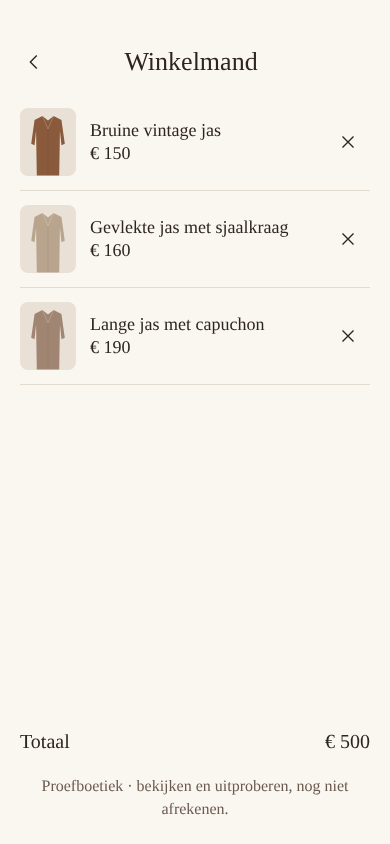
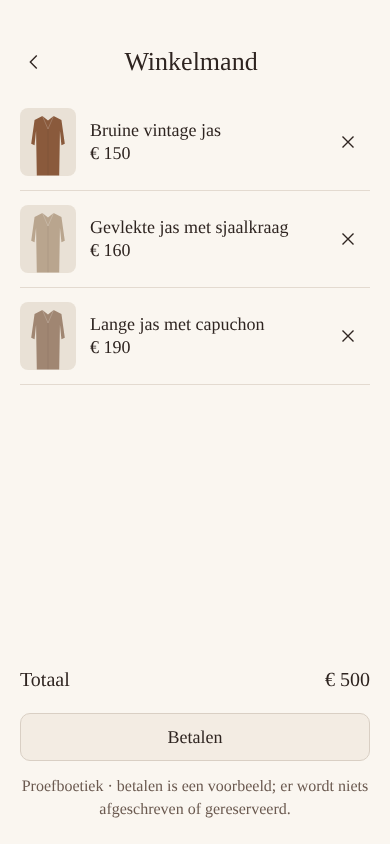
Besluiten Martijn: Mijn favorieten, Betalen met voorbeeldbetaling
- "Mijn items" heet "Mijn favorieten" (build-anker, lijsten en tests).
- Winkelmand: knop Betalen (was Afrekenen in optie B) met een
  voorbeeldbetaling in twee stappen; niets betaald, gereserveerd of
  geschreven, mand blijft staan. Tests en beelden bijgewerkt.
- docs/SMAAKPROFIEL.md: twaalf besluiten vastgelegd, onderdelen herverdeeld
  (AI-proxy en herordenen met hoofdfoto per bezoeker hierna in deze sessie;
  Mijn smaak met meer/minder zoals dit voor de volgende sessie).
- FRONTEND-PLAN, AGENTS.md (afwijkingen van optie B), blauwdruk taste.js en
  STATUS bijgewerkt. Paneelmarges (C) vervallen: dicht bij optie B blijven.

Claude-Session: https://claude.ai/code/session_016f11jGvvejD1eLcGxw7dXk

diff --git a/app/store-screens/taste.js b/app/store-screens/taste.js
@@ -1,7 +1,14 @@
 (function () {
   // Mijn smaak — BLAUWDRUK, NOG NIET GEBOUWD. Eigenaar: volgende Claude Code-sessie
   // (docs/SMAAKPROFIEL.md, onderdeel 4). Dit bestand wordt al meegebouwd maar registreert niets,
-  // zodat de winkel ongewijzigd blijft tot Martijn de plek in het menu heeft goedgekeurd.
+  // zodat de winkel ongewijzigd blijft tot dit onderdeel af is.
+  //
+  // Besluiten van Martijn (10 november 2026), zie docs/SMAAKPROFIEL.md "Besluiten":
+  //   - "Mijn smaak" is een vierde regel in het Shop-menu (na Winkelmand of na Mijn favorieten).
+  //   - Alles in het venster vult zich door de keuzes van de bezoeker; niets voorgevuld.
+  //   - De bezoeker kan alles wissen, of één kenmerk tegelijk.
+  //   - Knoppen meer/minder zoals dit staan in de foto, aan de andere kant dan het hartje.
+  //   - Zoekfilters in Collectie tellen niet als voorkeur.
   //
   // Waarom geen React/Vue: de winkel is gewone JavaScript zonder build (AGENTS.md: geen tweede
   // systeem). Het venster gebruikt dezelfde aansluiting als Winkelmand: NikkiShop.registerScreen.
@@ -12,31 +19,40 @@
   //   A.applySignal(p, signal, now)   -> nieuw profiel (zie app/taste/types.d.ts voor Signal)
   //   A.summarize(p, now)             -> wat de bezoeker als "actief" ziet; null als het uit staat
   //   NikkiShop.onSignal(fn)          -> like/unlike/cart/uncart (+ publieke kopie), browse-filter
+  //   NikkiShop.api.current()         -> het stuk in beeld; api.publicCopy(it) voor een signaal
   //
-  // 1. Leren (zelfde PR als het venster, want transparantie hoort erbij)
-  //   NikkiShop.onSignal((signal) => { if (signal.type === 'browse-filter') return; // zoekfilter ≠ voorkeur
+  // 1. Leren
+  //   NikkiShop.onSignal((signal) => { if (signal.type === 'browse-filter') return;
   //     const now = Date.now(); P.save(localStorage, A.applySignal(P.load(localStorage, now), signal, now)); });
   //
-  // 2. Venster (registerScreen('Mijn smaak', { render, action })), van boven naar beneden:
-  //   [kop: terug-icoon · "Mijn smaak" · leeg vak]            (gedeelde kop, zoals Collectie)
-  //   [schakelaar] Persoonlijke volgorde  aan/uit             data-act="taste-enable"
-  //   Uitleg, 16 px, één zin: "Je voorkeuren blijven in deze browser. Er wordt niets over jou opgeslagen."
-  //   Sectie "Dit zoek je"   — expliciete keuzes als chips met ×  data-act="taste-filter" (include, on:false)
-  //   Sectie "Dit vermijd je" — idem voor exclude
-  //   Sectie "Geleerd"        — top 12 uit summarize().prefer en .avoid, label uit p.features[key].label,
-  //                             met ×-knop: data-act="taste-forget" data-key="<FeatureKey>"
-  //   Toevoegen: per dimensie een <select> met waarden uit api.items() (zoals het materiaalfilter),
-  //              twee knoppen met icoon (plus / min, zonder woorden): include of exclude
-  //   Budget: <select> met de prijsklassen uit A.PRICE_BANDS of "Geen grens"  -> {type:'budget'}
-  //   Onderaan: knop met prullenbak-icoon "Wis mijn smaak"   data-act="taste-clear" (bevestigen met confirm)
-  //   Leeg profiel: "Nog geen voorkeuren. Hartjes en je winkelmand helpen de boetiek je smaak te leren."
+  // 2. Meer / minder zoals dit (in de foto)
+  //   - Twee knoppen .on-photo in een eigen groep links in de foto, gespiegeld aan .photo-acts
+  //     (delen + hartje) rechts. Iconen zonder tekst: duim omhoog / duim omlaag, of plus / min.
+  //     aria-label "Meer zoals dit" / "Minder zoals dit", aria-pressed na tikken tot een ander stuk.
+  //   - Tik: A.applySignal(p, {type:'more'|'less', item: api.publicCopy(api.current())}, now).
+  //   - Voeg ze toe vanuit dit bestand (DOM na laden), zodat de kern ongewijzigd blijft. Let op de
+  //     bestaande veeg- en dubbeltikbediening: knoppen in de foto worden al genegeerd door de gebaren.
+  //   - Verberg ze zoals de andere fotoknoppen bij een lege catalogus ([data-catalog-empty]).
   //
-  // 3. Regels
+  // 3. Venster (registerScreen('Mijn smaak', { render, action })), van boven naar beneden:
+  //   [kop: terug-icoon · "Mijn smaak" · leeg vak]            (gedeelde kop, zoals Collectie)
+  //   [schakelaar] Persoonlijke volgorde aan/uit              data-act="taste-enable"
+  //   Uitleg, 16 px, één zin: "Je voorkeuren blijven in deze browser."
+  //   Sectie "Meer van"      — summarize().prefer, label uit p.features[key].label of de expliciete waarde
+  //   Sectie "Minder van"    — summarize().avoid
+  //   Elke regel: label + ×-knop  data-act="taste-forget" data-key="<FeatureKey>" (expliciet: filter on:false)
+  //   Budget, alleen als de bezoeker het koos: regel met ×  -> {type:'budget', maxPriceMinor:null}
+  //   Onderaan: "Wis alles" (prullenbak-icoon)  data-act="taste-clear", met confirm
+  //   Leeg profiel: "Nog geen voorkeuren. Hartjes, je winkelmand en meer/minder zoals dit vullen dit vanzelf."
+  //   Geen keuzelijsten om zelf kenmerken toe te voegen: alles komt uit wat de bezoeker doet.
+  //
+  // 4. Regels
   //   - Stijl van optie B en Collectie: .head, .line, .chip, .ic, var(--chip) enz.; tekst ≥ 16 px,
-  //     knoppen ≥ 44 px, iconen zonder woorden, alles via esc() (labels komen uit opslag = onbetrouwbaar).
-  //   - Nog géén herordening van de winkel en géén AI-aanroep; dat is onderdeel 5 en wacht op Martijn.
-  //   - Menuplek: optie B heeft drie menuregels. Een vierde regel "Mijn smaak" (of een icoon in Mijn items)
-  //     is een ontwerpwijziging: vraag het in de PR, met beelden op 390/320 px naast optie B.
-  //   - Tests in tests/storefront-taste.cjs: leren via hartje/mand, terugdraaien, uit = niets leren,
-  //     wissen houdt de uit-stand, vergeten van één kenmerk, veilige tekst, 44 px, geen netwerk-schrijfacties.
+  //     knoppen ≥ 44 px, alles via esc() (labels komen uit opslag en zijn dus onbetrouwbaar).
+  //   - Menuregel toevoegen via een anker in scripts/build-cloud.mjs (zoals "Mijn favorieten").
+  //   - Geen herordening en geen AI-aanroep: dat zijn onderdelen 5 en 6 (andere sessie,
+  //     bestand app/store-screens/personalise.js). Raak dat bestand niet aan.
+  //   - Tests in tests/storefront-taste.cjs: leren via hartje/mand/meer/minder, terugdraaien,
+  //     uit = niets leren, wissen houdt de uit-stand, één kenmerk vergeten, zoekfilter leert niets,
+  //     veilige tekst, 44 px, geen netwerkverkeer behalve de bestaande catalogus.
 })();

diff --git a/app/store-screens/cart.js b/app/store-screens/cart.js
@@ -1,29 +1,46 @@
 (function () {
   // Winkelmand: the basket overview from concept/ontdekken-optie-b.html (lines, remove, total),
   // filled with the local selection in localStorage.nikki-cart. Owner: see docs/FRONTEND-PLAN.md.
-  // No checkout exists yet, so the design's "Afrekenen" button is replaced by the existing pilot note.
-  // Nothing is reserved or written to Supabase.
-  var NOTE = '<p class="muted cart-note">Proefboetiek · bekijken en uitproberen, nog niet afrekenen.</p>';
+  // "Betalen" (Martijn, 10 november 2026: Betalen instead of Afrekenen) runs a sample payment only:
+  // nothing is paid, reserved or written to Supabase, and the basket stays as it is.
+  var NOTE = '<p class="muted cart-note">Proefboetiek · betalen is een voorbeeld; er wordt niets afgeschreven of gereserveerd.</p>';
+  var step = 'cart'; // 'cart' | 'pay' | 'done'
   function euro(minor) {
     return new Intl.NumberFormat('nl-NL', { style: 'currency', currency: 'EUR', minimumFractionDigits: minor % 100 ? 2 : 0 }).format(minor / 100);
   }
+  function focus(selector) { var el = document.querySelector('#cart ' + selector); if (el) el.focus({ preventScroll: true }); }
   window.NikkiShop.registerScreen('Winkelmand', {
     render: function (api) {
+      // A fresh opening of the panel always starts at the basket; a catalog refresh keeps the step.
+      if (document.getElementById('cart').hidden) step = 'cart';
       var esc = api.esc, keys = api.cartKeys();
       var lines = keys.map(function (key) { return api.items().find(function (it) { return it.key === key; }); }).filter(Boolean);
       // A published piece whose photos are temporarily unavailable stays selected but cannot be shown.
       var hidden = keys.length - lines.length;
       var hiddenNote = hidden ? '<p class="muted cart-note">' + (hidden === 1 ? '1 stuk in je winkelmand is' : hidden + ' stukken in je winkelmand zijn') + ' tijdelijk niet te zien.</p>' : '';
-      if (!lines.length) return '<p class="muted" style="margin:48px 0 0;text-align:center;font-size:18px">Je winkelmand is leeg.</p>' + hiddenNote + NOTE;
-      var total = lines.reduce(function (sum, it) { return sum + it.priceMinor; }, 0);
+      if (!lines.length) { step = 'cart'; return '<p class="muted" style="margin:48px 0 0;text-align:center;font-size:18px">Je winkelmand is leeg.</p>' + hiddenNote + NOTE; }
+      var total = euro(lines.reduce(function (sum, it) { return sum + it.priceMinor; }, 0));
+      var totalRow = '<div class="kv" style="border:0;font-size:20px"><span>Totaal</span><span id="cart-total">' + esc(total) + '</span></div>';
+      if (step === 'pay') return '<div class="cart-step"><p class="cart-step-title">Voorbeeldbetaling</p>' +
+        '<p class="cart-step-text">' + lines.length + (lines.length === 1 ? ' stuk' : ' stukken') + '. Dit is een proef: er wordt niets betaald of gereserveerd.</p></div>' +
+        '<div class="cart-foot">' + totalRow + '<button type="button" class="checkout" data-act="cart-pay-confirm">Betalen</button>' +
+        '<button type="button" class="checkout cart-secondary" data-act="cart-pay-back">Terug naar winkelmand</button></div>';
+      if (step === 'done') return '<div class="cart-step" role="status"><p class="cart-step-title">Voorbeeldbetaling afgerond</p>' +
+        '<p class="cart-step-text">Er is niets betaald of gereserveerd. Je stukken blijven in je winkelmand.</p></div>' +
+        '<div class="cart-foot"><button type="button" class="checkout" data-act="cart-pay-back">Terug naar winkelmand</button></div>';
       return '<ul class="cart-lines">' + lines.map(function (it) {
         return '<li class="line" data-item-key="' + esc(it.key) + '"><span class="face">' + api.face(it) + '</span><div class="txt"><span>' + esc(it.title) + '</span><span>' + esc(it.price) + '</span></div>' +
           '<button type="button" class="ic" data-act="cart-remove" data-key="' + esc(it.key) + '" aria-label="Verwijder ' + esc(it.title) + '">' + api.CLOSE + '</button></li>';
       }).join('') + '</ul>' +
-        '<div class="cart-foot">' + hiddenNote +
-        '<div class="kv" style="border:0;font-size:20px"><span>Totaal</span><span id="cart-total">' + esc(euro(total)) + '</span></div>' + NOTE + '</div>';
+        '<div class="cart-foot">' + hiddenNote + totalRow + '<button type="button" class="checkout" data-act="cart-pay">Betalen</button>' + NOTE + '</div>';
     },
     action: function (act, button, api) {
+      if (act === 'cart-pay' || act === 'cart-pay-confirm' || act === 'cart-pay-back') {
+        step = act === 'cart-pay' ? 'pay' : act === 'cart-pay-confirm' ? 'done' : 'cart';
+        api.refresh();
+        focus(step === 'pay' ? '[data-act="cart-pay-confirm"]' : step === 'done' ? '[data-act="cart-pay-back"]' : '[data-act="cart-pay"]');
+        return;
+      }
       if (act !== 'cart-remove') return;
       var keys = api.cartKeys(), next = keys[keys.indexOf(button.dataset.key) + 1];
       api.toggleCart(button.dataset.key, false);

diff --git a/app/store-extension.js b/app/store-extension.js
@@ -87,12 +87,12 @@
   var destination='', returnFocus=null, infoOrigin=null;
   var lists={
     'Collectie':{query:'',material:'',sort:'order',scroll:0},
-    'Mijn items':{query:'',material:'',sort:'order',scroll:0}
+    'Mijn favorieten':{query:'',material:'',sort:'order',scroll:0}
   };
   function fold(text) { return String(text || '').normalize('NFD').replace(/[\u0300-\u036f]/g,'').toLocaleLowerCase('nl-NL'); }
   function listItems() {
     var state=lists[destination], words=fold(state.query).trim().split(/\s+/).filter(Boolean);
-    var items=ITEMS.filter(it=>(destination!=='Mijn items' || S.liked[it.displayId]) &&
+    var items=ITEMS.filter(it=>(destination!=='Mijn favorieten' || S.liked[it.displayId]) &&
       (!state.material || it.material===state.material) &&
       words.every(word=>fold([it.title,it.description,it.material,['Ja','Alleen kraag of rand'].includes(it.furClass)?it.species:''].join(' ')).includes(word)));
     if(state.sort==='price-up')items.sort((a,b)=>a.priceMinor-b.priceMinor);
@@ -120,7 +120,7 @@
     $('catalog-reset').disabled=!state.query && !state.material && state.sort==='order';
     if(!items.length) {
       var message=state.query || state.material?'Geen stukken gevonden. Pas je zoekopdracht of filters aan.':
-        destination==='Mijn items'?'Er zijn nu geen beschikbare stukken met een hartje.':'Er zijn nu geen stukken beschikbaar.';
+        destination==='Mijn favorieten'?'Er zijn nu geen beschikbare stukken met een hartje.':'Er zijn nu geen stukken beschikbaar.';
       results.innerHTML='<li class="catalog-empty muted">'+message+'</li>';
     } else results.innerHTML=items.map(it=>{
       var key=esc(it.key), selected=!!S.cart[it.key], liked=!!S.liked[it.displayId];
@@ -128,7 +128,7 @@
         '<button type="button" class="face catalog-photo" data-act="list-photo" data-key="'+key+'" aria-label="Bekijk foto’s van '+esc(it.title)+'">'+face(it)+'</button>'+
         '<div class="txt"><button type="button" class="catalog-title" data-act="list-info" data-key="'+key+'" aria-label="Meer over '+esc(it.title)+'">'+esc(it.title)+'</button>'+
         '<div class="catalog-actions"><button type="button" class="chip price catalog-price" data-act="list-cart" data-key="'+key+'" aria-pressed="'+selected+'" aria-label="'+esc(it.price)+', '+esc(it.title)+(selected?', verwijder uit winkelmand':', toevoegen aan winkelmand')+'">'+esc(it.price)+bagIcon(selected)+'</button>'+
-        '<button type="button" class="ic" data-act="list-like" data-key="'+key+'" aria-pressed="'+liked+'" aria-label="'+(liked?'Verwijder uit Mijn items: ':'Bewaar in Mijn items: ')+esc(it.title)+'">'+heartIcon(liked)+'</button></div></div></li>';
+        '<button type="button" class="ic" data-act="list-like" data-key="'+key+'" aria-pressed="'+liked+'" aria-label="'+(liked?'Verwijder uit Mijn favorieten: ':'Bewaar in Mijn favorieten: ')+esc(it.title)+'">'+heartIcon(liked)+'</button></div></div></li>';
     }).join('');
     results.scrollTop=scroll;state.scroll=results.scrollTop;
     if(focused) {
@@ -148,7 +148,7 @@
     }
     var state=lists[destination], materials=Array.from(new Set(ITEMS.map(it=>it.material).concat(state.material).filter(v=>typeof v==='string' && v.trim()))).sort((a,b)=>a.localeCompare(b,'nl-NL'));
     $('cart').innerHTML=header+
-      (destination==='Mijn items'?'<p class="catalog-note muted">Je hartjes worden alleen in deze browser bewaard.</p>':'')+
+      (destination==='Mijn favorieten'?'<p class="catalog-note muted">Je hartjes worden alleen in deze browser bewaard.</p>':'')+
       '<div class="catalog-tools"><div class="catalog-search"><input id="catalog-search" data-field="query" type="search" autocomplete="off" aria-label="Zoek in '+destination+'" placeholder="Zoek een stuk" value="'+esc(state.query)+'">'+
       '<button id="catalog-reset" type="button" class="ic" data-act="list-reset" aria-label="Wis zoekopdracht, filters en sortering">'+CLOSE+'</button></div>'+
       '<div class="catalog-filters"><select data-field="material" aria-label="Materiaal"><option value="">Elk materiaal</option>'+

diff --git a/app/store-layout.css b/app/store-layout.css
@@ -68,3 +68,7 @@ button:disabled { cursor: default; }
 .cart-foot { margin-top: auto; display: flex; flex-direction: column; gap: 14px; padding-top: 14px; }
 .cart-note { margin: 16px 0 0; text-align: center; font-size: 16px; line-height: 1.4; }
 .cart-foot .cart-note { margin: 0; }
+.cart-step { padding-top: 24px; display: flex; flex-direction: column; gap: 10px; }
+.cart-step-title { margin: 0; font-size: 22px; }
+.cart-step-text { margin: 0; font-size: 17px; line-height: 1.55; }
+.cart-secondary { background: transparent; }

diff --git a/docs/SMAAKPROFIEL.md b/docs/SMAAKPROFIEL.md
@@ -26,7 +26,7 @@ Nikki vult per stuk deze publieke velden in en controleert ze (contract in `supa
 - Geleerde gewichten blijven tussen −3 en 3. Er worden hoogstens 60 kenmerken bewaard. De samenvatting voor de server bevat hoogstens 12 voorkeuren en 12 afkeren.
 - **Privacy:** het profiel staat alleen in `localStorage` (`nikki-taste`). Er staan geen stuk-ID's, foto's of persoonsgegevens in. Staat personalisatie uit, dan wordt er niets geleerd. Wissen laat de uit-stand staan.
 - **Stabiel:** de volgorde wordt bepaald bij het begin van een sessie of na een expliciete keuze. Tijdens het bladeren blijft alles op zijn plek; nieuwe stukken komen achteraan (`stableOrder`).
-- **Lokaal eerst:** `ranking.js` rangschikt zonder AI, voorspelbaar en zonder kosten. Bij gelijke score houdt het Nikki's volgorde. Dit is ook de terugval als de AI niet antwoordt. Misschien is lokaal al genoeg; dat moet de A/B-test uitwijzen.
+- **AI rangschikt, lokaal vangt op:** Martijn heeft gekozen voor AI (zie Besluiten). `ranking.js` is alleen de terugval als de AI niet antwoordt of nog niet is ingesteld, en vult stukken aan die de AI overslaat. Bij gelijke score houdt het Nikki's volgorde.
 - **Guardrails bij de AI:**
   - De server haalt zelf de gepubliceerde stukken op en filtert op budget en status vóór de aanroep.
   - De AI ziet geen prijzen of echte ID's, alleen `c1`, `c2`, … met kenmerken en fotorollen.
@@ -39,27 +39,35 @@ Nikki vult per stuk deze publieke velden in en controleert ze (contract in `supa
 | | Onderdeel | Bestanden | Status en eigenaar |
 |---|---|---|---|
 | 1 | **Datamodel** `TasteProfile`, opslag, schoonmaak, verval | `app/taste/types.d.ts`, `app/taste/profile.js` | **Klaar** (Claude Code, deze sessie) |
-| 2 | **Signaalverwerking** en lokale rangschikking | `app/taste/aggregate.js`, `app/taste/ranking.js` | **Klaar** (deze sessie) |
-| 3 | **Payload, systeemprompt en controle** van het AI-antwoord | `supabase/functions/personalise/prompt.mjs` | **Klaar als pure functies** (deze sessie). Niet uitgerold. |
-| 3b | Kernaansluiting: extra publieke velden in de winkelcatalogus en `NikkiShop.onSignal` | `app/store-extension.js` | **Klaar** (deze sessie). De winkel gedraagt zich nog hetzelfde. |
-| 4 | **Venster "Mijn smaak"** (inzien, aanpassen, wissen, uitzetten) en het leren koppelen | `app/store-screens/taste.js` (blauwdruk), `tests/storefront-taste.cjs` | **Volgende Claude Code-sessie.** Opdracht hieronder. |
-| 5 | Winkel herordenen met de stabiele sessievolgorde; eventueel een andere hoofdfoto | nieuw bestand in `app/store-screens/` | **Wacht op Martijn**: verandert wat bezoekers zien |
-| 6 | Server-proxy: handler (herkomst, grootte, limiet per bezoeker/dag, Gemini), migratie voor quota | `supabase/functions/personalise/handler.mjs`, `index.ts` | **Wacht op Martijn**: openbaar betaald eindpunt zonder login (kosten, misbruik) |
-| 7 | A/B-test: gepersonaliseerd tegenover Nikki's volgorde | — | **Wacht op besluit**: er wordt nu niets gemeten |
+| 2 | **Signaalverwerking** en lokale terugval-rangschikking | `app/taste/aggregate.js`, `app/taste/ranking.js` | **Klaar** (deze sessie) |
+| 3 | **Payload, systeemprompt en controle** van het AI-antwoord | `supabase/functions/personalise/prompt.mjs` | **Klaar als pure functies** (deze sessie) |
+| 3b | Kernaansluiting: extra publieke velden en `NikkiShop.onSignal` | `app/store-extension.js` | **Klaar** (deze sessie) |
+| 4 | **Venster "Mijn smaak"** in het Shop-menu, leren, en de knoppen **meer/minder zoals dit** in de foto | `app/store-screens/taste.js` (blauwdruk), `tests/storefront-taste.cjs` | **Volgende Claude Code-sessie.** Opdracht hieronder. |
+| 5 | **Server-proxy** `personalise`: herkomst, grootte, limiet per bezoeker per dag, catalogus ophalen, Gemini-aanroep met `prompt.mjs` | `supabase/functions/personalise/handler.mjs`, `index.ts`, migratie voor de limiet | **Claude Code (deze sessie), na merge van PR #24.** Testbaar met nagebootste diensten; live pas met Gemini-sleutel en uitrol door Martijn. |
+| 6 | **Winkel herordenen** met de AI-volgorde, en per stuk de **hoofdfoto** die bij de bezoeker past | nieuw bestand `app/store-screens/personalise.js` | **Claude Code (deze sessie), na 5.** Raakt `taste.js` niet. |
+| 7 | Meten (A/B: gepersonaliseerd tegenover Nikki's volgorde) | — | Later, vóór de test met Nikki en anderen (zie Besluiten, punt 8) |
 
 Getest in `tests/taste.test.mjs` (14 tests, onderdeel van `npm test`). De browsermodules draaien in de test precies zoals in de winkel. Ook bewaakt: dezelfde kenmerken in browser en server, geen privévelden of ID's in profiel en payload, verval, de uit-stand, gemanipuleerde opslag, budget- en statusfilter, de kandidaatgrens en de controle van het AI-antwoord. De browsertest controleert de signalen in de echte winkel, en dat er nog niets wordt opgeslagen. TypeScript-controle: `npx -p typescript@5.6.3 tsc --noEmit --allowJs --checkJs --target es2022 --lib es2022,dom app/taste/*.js app/taste/types.d.ts` gaf geen fouten. TypeScript is geen projectafhankelijkheid.
 
 ## Opdracht voor de volgende Claude Code-sessie (onderdeel 4)
 
-Kopieer dit als startbericht:
+Kopieer dit als startbericht (pas nadat PR #24 is gemerged):
 
-> Lees AGENTS.md, docs/SMAAKPROFIEL.md, `app/taste/types.d.ts` en de blauwdruk in `app/store-screens/taste.js`. Begin op de nieuwste `main` met een eigen branch. Bouw onderdeel 4: het venster "Mijn smaak" en het leren via `NikkiShop.onSignal`, alleen in `app/store-screens/taste.js`, met een eigen test `tests/storefront-taste.cjs`. Wijzig `app/taste/*` en `app/store-extension.js` niet; als het contract tekortschiet, stop dan en beschrijf wat nodig is. Nog geen herordening van de winkel en geen AI-aanroep. Stel de menuplek als vraag in de PR, met beelden op 390 en 320 px naast optie B.
+> Lees AGENTS.md, docs/SMAAKPROFIEL.md (vooral "Besluiten"), `app/taste/types.d.ts` en de blauwdruk in `app/store-screens/taste.js`. Begin op de nieuwste `main` met een eigen branch. Bouw onderdeel 4: het venster "Mijn smaak" als vierde regel in het Shop-menu, het leren via `NikkiShop.onSignal`, en de knoppen meer/minder zoals dit in de foto, aan de andere kant dan het hartje. Werk alleen in `app/store-screens/taste.js`, een eigen blok in `app/store-layout.css`, het menu-anker in `scripts/build-cloud.mjs` en een eigen test `tests/storefront-taste.cjs`. Wijzig `app/taste/*` en `app/store-extension.js` niet; als het contract tekortschiet, stop dan en beschrijf wat nodig is. Geen herordening en geen AI-aanroep: dat zijn onderdelen 5 en 6, die tegelijk in een andere sessie worden gebouwd. Lever een PR met beelden op 390 en 320 px naast optie B.
 
-## Vragen voor Martijn
+## Besluiten van Martijn (10 november 2026)
 
-1. **Menuplek** voor "Mijn smaak": een vierde regel in het Shop-menu, of een icoon in Mijn items? Optie B heeft nu drie regels.
-2. **Meer / minder zoals dit**: optie B heeft daar geen knoppen voor. Waar mogen ze komen, zonder tekst over de foto? Tot die tijd leert het profiel van hartjes en de mand.
-3. **Hoofdfoto**: mag de boetiek een andere foto van een stuk eerst tonen dan Nikki's hoofdfoto? Standaard niet.
-4. **AI of lokaal**: een openbaar AI-eindpunt kost geld per bezoek en vraagt misbruikbeperking. Voorstel: eerst lokaal (onderdeel 5) en meten, AI pas daarna.
-5. **Zoekfilters in Collectie**: nu tellen ze niet als voorkeur, omdat een eenmalige zoekopdracht geen smaak is. Akkoord?
-6. **Meten en toestemming**: voor de A/B-test zijn gebeurtenissen nodig (hartjes, mand, later bestellingen en retouren). Kies eerst waar en hoe anoniem. Laat ook nagaan of het lokale profiel en het meten een melding of toestemming vragen. Dit plan is geen juridische beoordeling.
+1. **Merge:** winkelmand en smaakprofiel blijven allebei in PR #24.
+2. **"Mijn smaak"** komt als regel in het Shop-menu. Alles erin vult zich door de keuzes van de bezoeker: niets voorgevuld, geen redactionele lijst. De bezoeker kan alles in één keer wissen, of één kenmerk tegelijk.
+3. **Zoekfilters in Collectie** tellen niet als voorkeur.
+4. **AI, zeker.** Geen tijd steken in een rangschikking zonder AI; de lokale rangschikking blijft alleen als terugval.
+5. **De winkel moet herordenen op smaak.** De ervaring sluit aan op de smaak van de koper, niet op die van de verkoper. Alles wat Nikki aanbiedt wordt geordend naar wat deze bezoeker interessant vindt. Nikki's volgorde geldt alleen zonder profiel of met personalisatie uit.
+6. **Meer / minder zoals dit:** in de foto, aan de andere kant dan het hartje. Iconen zonder tekst, minstens 44 px.
+7. **Hoofdfoto per bezoeker: ja.** Wie steeds "meer zoals dit" zegt bij kragen, mag als eerste de detailfoto van de kraag zien. Alleen bestaande foto's van dat stuk; Nikki's hoofdfoto blijft de standaard.
+8. **Meten en toestemming:** niet urgent. Wel regelen vóór Nikki en andere testers de app gebruiken. Tot die tijd wordt niets gemeten of verstuurd buiten de AI-aanroep.
+9. **Winkelplatform, klantaccount en hartjes op meerdere apparaten:** later. Eerst een werkend model met API's, database en website, getest door Nikki en anderen.
+10. **Delen:** een kort vinkje in het deelicoon na kopiëren. Het delen zelf mag eenvoudiger (onderdeel B in FRONTEND-PLAN.md).
+11. **Zo dicht mogelijk bij het artefact van optie B blijven.** Daarom geen CSS-wijziging aan de paneelmarges (onderdeel C vervalt).
+12. **Namen:** "Mijn favorieten" in plaats van "Mijn items", "Betalen" in plaats van "Afrekenen". Betalen doorloopt een voorbeeldbetaling: er wordt niets betaald of gereserveerd.
+
+Nog open, voor later: hoe anoniem het meten moet en of het een melding of toestemming vraagt. Laat dat nagaan; dit plan is geen juridische beoordeling.

diff --git a/docs/FRONTEND-PLAN.md b/docs/FRONTEND-PLAN.md
@@ -30,15 +30,15 @@ Tot nu toe stond de hele winkel in één bestand, `app/store-extension.js`. Twee
 
 | | Onderdeel | Bestand | Status en eigenaar |
 |---|---|---|---|
-| A | **Winkelmand-overzicht**: regels uit optie B met foto, naam, prijs en verwijderen, plus het totaal. In plaats van de knop Afrekenen staat de bestaande proefmelding, want er is nog geen checkout. Een stuk waarvan de foto tijdelijk niet laadt, blijft in de mand en wordt als "tijdelijk niet te zien" gemeld. | `app/store-screens/cart.js`, `tests/storefront-cart.cjs` | **Klaar in deze PR** (Claude Code, deze sessie, overgenomen van Codex). [Beelden](screenshots/winkelmand/README.md) |
+| A | **Winkelmand-overzicht**: regels uit optie B met foto, naam, prijs en verwijderen, plus het totaal. De knop heet Betalen en doorloopt een voorbeeldbetaling zonder betaling of reservering (Martijn, 10 november). Een stuk waarvan de foto tijdelijk niet laadt, blijft in de mand en wordt als "tijdelijk niet te zien" gemeld. | `app/store-screens/cart.js`, `tests/storefront-cart.cjs` | **Klaar in deze PR** (Claude Code, deze sessie, overgenomen van Codex). [Beelden](screenshots/winkelmand/README.md) |
 | B | **Delen en stuklinks** (na het smaakprofiel): het deelicoon in de foto deelt een link naar het huidige stuk; wie de link opent, komt op dat stuk uit. | `app/store-screens/share.js` (startbestand met regels staat klaar, doet nog niets) | Daarna, of door een andere agent. Opdracht hieronder. |
-| C | **Paneelmarges op lage schermen**: in `app/store-layout.css` winnen de algemene `.info`/`.cart`-regels van de regels voor schermen lager dan 760 px. | `app/store-layout.css` | **Wacht op Martijn**: het verandert het beeld van goedgekeurde vensters. Pas na akkoord, met beelden voor/na. |
-| D | Klantaccount voor bezoekers | — | Wacht op productbesluit. Niet bouwen. |
-| E | Hartjes op meerdere apparaten of tabbladen | — | Wacht op besluit (alleen tabbladen, of account met opslag en rechten). |
-| F | Checkout en reservering | — | Wacht op keuze winkelplatform (P4 in [PLAN.md](PLAN.md)). De mand reserveert niets. |
-| G | Persoonlijke pasvorm en meldingen | — | Wacht op productkeuze en datacontract. Niets afleiden uit hartjes of foto's. |
+| C | ~~Paneelmarges op lage schermen~~ **Vervalt** (Martijn: zo dicht mogelijk bij het artefact blijven): in `app/store-layout.css` winnen de algemene `.info`/`.cart`-regels van de regels voor schermen lager dan 760 px. | `app/store-layout.css` | Niet aanpassen. |
+| D | Klantaccount voor bezoekers | — | Later (Martijn): eerst een werkende app testen. |
+| E | Hartjes op meerdere apparaten of tabbladen | — | Later (Martijn). |
+| F | Echte betaling en reservering | — | Later (Martijn): eerst het werkende model met Nikki en anderen testen. Nu alleen de voorbeeldbetaling. |
+| G | Persoonlijke pasvorm en meldingen | — | Later. Smaak loopt via [SMAAKPROFIEL.md](SMAAKPROFIEL.md). |
 
-Alleen A en B passen binnen de huidige bevoegdheden: lokaal in de browser, zonder nieuwe opslag, rechten of backend. C tot en met G vragen eerst een besluit van Martijn.
+A is klaar, B kan na het smaakprofiel. D tot en met G komen pas na de test met Nikki en anderen.
 
 ## Opdracht voor de volgende Claude Code-sessie (onderdeel B)
 
@@ -52,7 +52,7 @@ Regels voor B, ook te lezen in het startbestand:
 - Een onbekend, verkocht of ongeldig stuk in de link toont gewoon de winkel. Geen foutscherm en geen voorbeeldstuk.
 - De winkel draait in een iframe (`app/main.js`). De link hoort bij de buitenpagina; test dat expliciet.
 - Het deelicoon blijft op dezelfde plek, minstens 44 px, zonder tekst over de foto.
-- **Open vraag voor Martijn, in de PR stellen:** hoe laat je zien dat de link gekopieerd is? `api.status` toont volgens afspraak alleen laden en fouten. Voorstel: kort een vinkje in hetzelfde icoon, zonder tekst.
+- **Besloten door Martijn:** na kopiëren kort een vinkje in hetzelfde icoon, zonder tekst. Het delen mag ook eenvoudiger: één tik opent het deelmenu van de telefoon, anders wordt de link gekopieerd.
 
 ## Werkafspraken
 

diff --git a/app/README.md b/app/README.md
@@ -28,11 +28,11 @@ Prijs wisselt de lokale selectie in `localStorage.nikki-cart` (alleen permanente
 
 De echte winkel vult tot en met 480 px de viewport, zonder het presentatiekader van de referentie. Daarboven blijft de breedte 390 px, gecentreerd. De binnenindeling en container-breekpunten blijven uit de referentie komen, gerekend met de werkelijke beschikbare breedte. Veilige randen gebruiken `env(safe-area-inset-*)`. Status staat alleen bij laden of een probleem in de bestaande bovenruimte, zonder verschuiving.
 
-Collectie toont de beschikbare stukken uit dezelfde publieke NikkiStore-catalogus. Mijn items toont daarvan de stukken met een lokaal hartje (`gsf-liked`, vaste `display_id`). Beide gebruiken de bestaande paneelstijl en bieden zoeken in publieke tekst, filteren op ingevuld materiaal en sorteren op boetiekvolgorde, prijs of naam. De standaardvolgorde wordt niet als “nieuwste” gepresenteerd.
+Collectie toont de beschikbare stukken uit dezelfde publieke NikkiStore-catalogus. Mijn favorieten (eerder Mijn items) toont daarvan de stukken met een lokaal hartje (`gsf-liked`, vaste `display_id`). Beide gebruiken de bestaande paneelstijl en bieden zoeken in publieke tekst, filteren op ingevuld materiaal en sorteren op boetiekvolgorde, prijs of naam. De standaardvolgorde wordt niet als “nieuwste” gepresenteerd.
 
-Foto opent het gekozen stuk in de bestaande winkel; naam opent het bestaande informatievenster en keert bij sluiten terug naar dezelfde lijst, filters en scrollpositie. Prijs wisselt de bestaande lokale mand; het hartje bewaart/verwijdert het stuk in Mijn items. Vernieuwde fotolinks en verkochte stukken worden ook in een open lijst verwerkt. Een fotostoring verwijdert geen opgeslagen hartje. Zoekopdracht, filters en scroll staan alleen in het geheugen per venster; hartjes blijven in deze browser bewaard, zonder klantaccount of synchronisatie.
+Foto opent het gekozen stuk in de bestaande winkel; naam opent het bestaande informatievenster en keert bij sluiten terug naar dezelfde lijst, filters en scrollpositie. Prijs wisselt de bestaande lokale mand; het hartje bewaart/verwijdert het stuk in Mijn favorieten. Vernieuwde fotolinks en verkochte stukken worden ook in een open lijst verwerkt. Een fotostoring verwijdert geen opgeslagen hartje. Zoekopdracht, filters en scroll staan alleen in het geheugen per venster; hartjes blijven in deze browser bewaard, zonder klantaccount of synchronisatie.
 
-Winkelmand (`store-screens/cart.js`) toont de lokaal geselecteerde stukken met foto, naam, prijs, verwijderknop en totaal, in de regels van optie B. In plaats van Afrekenen staat de proefmelding: er is geen checkout en de mand reserveert niets. Een gepubliceerd stuk waarvan de foto tijdelijk niet laadt, blijft geselecteerd en wordt gemeld als tijdelijk niet te zien. Het accounticoon opent het bestaande beheer. De hoofdwinkel is in deze aanvulling ongewijzigd. Zie [functieoverzicht en resterend werk](../docs/FUNCTIONALITEIT.md) en [beelden voor/na](../docs/screenshots/collectie-mijn-items/README.md).
+Winkelmand (`store-screens/cart.js`) toont de lokaal geselecteerde stukken met foto, naam, prijs, verwijderknop en totaal, in de regels van optie B. De knop Betalen (in plaats van Afrekenen) doorloopt een voorbeeldbetaling in twee stappen; er wordt niets betaald of gereserveerd en de mand blijft staan. Een gepubliceerd stuk waarvan de foto tijdelijk niet laadt, blijft geselecteerd en wordt gemeld als tijdelijk niet te zien. Het accounticoon opent het bestaande beheer. De hoofdwinkel is in deze aanvulling ongewijzigd. Zie [functieoverzicht en resterend werk](../docs/FUNCTIONALITEIT.md) en [beelden voor/na](../docs/screenshots/collectie-mijn-items/README.md).
 
 ## Contract
 

diff --git a/AGENTS.md b/AGENTS.md
@@ -26,7 +26,7 @@ Lees eerst README.md, docs/ACCESS.md, docs/PLAN.md en relevante onderdelen van d
 
 - De geldende versie van de winkel is de cloudwinkel op `main`: `app/` (gebouwd met `npm run build`), live op https://nikki-s-vintage.martijnungerer.workers.dev. Martijn heeft deze versie op 10 november 2026 goedgekeurd.
 - Begin elke taak met de nieuwste `main` (`git fetch origin main`) en maak daar een nieuwe branch van. Bouw niet verder op oude branches, oude previews, `concept/site-skeleton.html`, `concept/nikki-proefapp.html` of een eigen kopie; die zijn geen uitgangspunt meer voor de winkel.
-- Afgesproken afwijkingen van de referentie `concept/ontdekken-optie-b.html`, die in de app zo moeten blijven: schermvullend zonder telefoonkader tot 480 px breed; op schermen lager dan 760 px minder bovenmarge zodat de foto groter is; de onderrij houdt altijd vier vakjes (vorig stuk en drie volgende), leeg en uitgeschakeld als er geen stuk voor is; status alleen bij laden of een fout; materiaal en bontsoort in het informatievenster. Winkelmand toont het lokale mandoverzicht, met de proefmelding in plaats van Afrekenen; zie docs/FRONTEND-PLAN.md. Op Martijns verzoek gebruiken Collectie en Mijn items nu de bestaande catalogus en lokale hartjes; zie docs/FUNCTIONALITEIT.md.
+- Afgesproken afwijkingen van de referentie `concept/ontdekken-optie-b.html`, die in de app zo moeten blijven: schermvullend zonder telefoonkader tot 480 px breed; op schermen lager dan 760 px minder bovenmarge zodat de foto groter is; de onderrij houdt altijd vier vakjes (vorig stuk en drie volgende), leeg en uitgeschakeld als er geen stuk voor is; status alleen bij laden of een fout; materiaal en bontsoort in het informatievenster. Winkelmand toont het lokale mandoverzicht met de knop Betalen (in plaats van Afrekenen), die alleen een voorbeeldbetaling doorloopt; zie docs/FRONTEND-PLAN.md. Collectie en Mijn favorieten (in plaats van Mijn items) gebruiken de bestaande catalogus en lokale hartjes; zie docs/FUNCTIONALITEIT.md. Goedgekeurd voor het smaakprofiel (docs/SMAAKPROFIEL.md): "Mijn smaak" als regel in het Shop-menu, knoppen meer/minder zoals dit in de foto tegenover het hartje, en een volgorde en hoofdfoto per bezoeker.
 - Verander de winkel alleen op uitdrukkelijk verzoek van Martijn, in een kleine PR met schermafbeeldingen voor en na. Vervang de winkel niet door een nieuw ontwerp of een herbouw.
 
 ## Reviewfocus

diff --git a/docs/screenshots/winkelmand/README.md b/docs/screenshots/winkelmand/README.md
@@ -1,6 +1,6 @@
 # Winkelmand — voor, na en optie B
 
-Vastgelegd op 10 november 2026 in Chromium, bij viewports van 390 × 844 en 320 × 844 px. Links staat de goedgekeurde `main` 5bc7199 (alleen de proefmelding). In het midden staat dezelfde winkel met het ingevulde mandoverzicht. Rechts staat de referentie `concept/ontdekken-optie-b.html` met voorbeeldgegevens. Het verschil met optie B is bewust: de knop Afrekenen is vervangen door de bestaande proefmelding, omdat er nog geen checkout is.
+Vastgelegd op 10 november 2026 in Chromium, bij viewports van 390 × 844 en 320 × 844 px. Links staat de goedgekeurde `main` 5bc7199 (alleen de proefmelding). Daarna volgen het ingevulde mandoverzicht en de stap Voorbeeldbetaling. Rechts staat de referentie `concept/ontdekken-optie-b.html` met voorbeeldgegevens. Op verzoek van Martijn heet de knop Betalen in plaats van Afrekenen. Betalen doorloopt alleen een voorbeeld: er wordt niets betaald of gereserveerd, en de mand blijft staan.
 
 De records en tekeningen komen uit de catalogus-testinterface. Er staan geen echte inventaris, privéfoto's, klantgegevens of fototokens in beeld. Externe fonts zijn geblokkeerd, dus alle kanten gebruiken de Georgia-terugval.
 
@@ -8,4 +8,4 @@ De records en tekeningen komen uit de catalogus-testinterface. Er staan geen ech
 
 ![Winkelmand op 320 px — voor, na en optie B](cart-320-comparison.png)
 
-Opnieuw maken: `npm run build && npm run test:browser`. De browsertest schrijft `cart-<breedte>.png` en `reference-cart-<breedte>.png` naar `work/option-b-screenshots/`. Het voor-beeld is gemaakt met dezelfde test op `main`.
+Opnieuw maken: `npm run build && npm run test:browser`. De browsertest schrijft `cart-<breedte>.png`, `pay-<breedte>.png` en `reference-cart-<breedte>.png` naar `work/option-b-screenshots/`. Het voor-beeld is gemaakt met dezelfde test op `main`.

diff --git a/docs/STATUS.md b/docs/STATUS.md
@@ -10,6 +10,11 @@ Korte logboekregels, nieuwste bovenaan. Alleen feiten die zijn gecontroleerd; pl
 
 ## Logboek
 
+### 10 november 2026 — besluiten Martijn verwerkt, Mijn favorieten en Betalen
+- Twaalf besluiten van Martijn vastgelegd in [SMAAKPROFIEL.md](SMAAKPROFIEL.md). De belangrijkste: AI rangschikt, de winkel herordent en kiest de hoofdfoto per bezoeker, "Mijn smaak" komt in het Shop-menu, meer/minder zoals dit staat in de foto, en zo dicht mogelijk bij optie B blijven.
+- "Mijn items" heet nu "Mijn favorieten". In de winkelmand staat weer een knop, nu "Betalen". Die doorloopt een voorbeeldbetaling in twee stappen; er wordt niets betaald of gereserveerd, en de browsertest controleert dat er geen schrijfacties zijn. [Beelden](screenshots/winkelmand/README.md).
+- Verdeling: de volgende Claude Code-sessie bouwt "Mijn smaak" en meer/minder zoals dit. Deze sessie bouwt daarna de server-proxy en het herordenen met de AI-volgorde en de hoofdfoto per bezoeker.
+
 ### 10 november 2026 — smaakprofiel: datamodel, signaalverwerking, prompt en controle
 - Martijns opdracht voor een smaakprofiel ontbrak in de eerste versie van deze taak. Nu uitgewerkt in [SMAAKPROFIEL.md](SMAAKPROFIEL.md), gebaseerd op de door Nikki ingevulde publieke kenmerken (materiaal, model, kleur, lengte, pasvorm, periode, bijzonderheden, bont, prijsklasse). Niets wordt uit foto's afgeleid.
 - Klaar: `app/taste/` (TypeScript-contract, opslag met verval, signaalverwerking, lokale rangschikking, stabiele sessievolgorde) en `supabase/functions/personalise/prompt.mjs` (payload, systeemprompt, controle van het AI-antwoord). De kern geeft nu de extra publieke velden door en zendt signalen uit via `NikkiShop.onSignal`. De winkel gedraagt zich nog hetzelfde en slaat nog geen profiel op.

diff --git a/docs/FUNCTIONALITEIT.md b/docs/FUNCTIONALITEIT.md
@@ -8,7 +8,7 @@ Onderzocht op 10 november 2026 vanaf de goedgekeurde cloudwinkel op main d730413
 |---|---|
 | Collectie | Alle beschikbare gepubliceerde stukken met bereikbare foto's. Zoeken in titel, verkooptekst, materiaal en toepasselijke bontsoort; alle zoekwoorden moeten passen, hoofdletters en accenten maken geen verschil. |
 | Filters en sortering | Materiaalkeuzes komen uit ingevulde cataloguswaarden. Sorteren op dezelfde volgorde als de boetiek, prijs oplopend/aflopend of naam. Wisicoon zet zoeken, filter en sortering terug. |
-| Mijn items | Beschikbare stukken met het bestaande lokale hartje. Toevoegen/verwijderen werkt vanuit de winkel en beide lijsten. De uitleg vermeldt expliciet dat hartjes alleen in deze browser worden bewaard. |
+| Mijn favorieten (was Mijn items) | Beschikbare stukken met het bestaande lokale hartje. Toevoegen/verwijderen werkt vanuit de winkel en beide lijsten. De uitleg vermeldt expliciet dat hartjes alleen in deze browser worden bewaard. |
 | Foto / naam / prijs | Foto opent het stuk in de bestaande winkel. Naam opent bestaande verkooptekst en platte maten; sluiten brengt je terug naar je lijst en scrollpositie. Prijs wisselt alleen de lokale mand. |
 | Vernieuwing en lege lijsten | Open lijsten krijgen nieuwe fotolinks en beschikbaarheid. Zoeken, filters, sortering, focus en scroll blijven waar mogelijk behouden. Geen fictieve records bij leegte; een tijdelijke fotostoring verwijdert geen hartje. |
 
